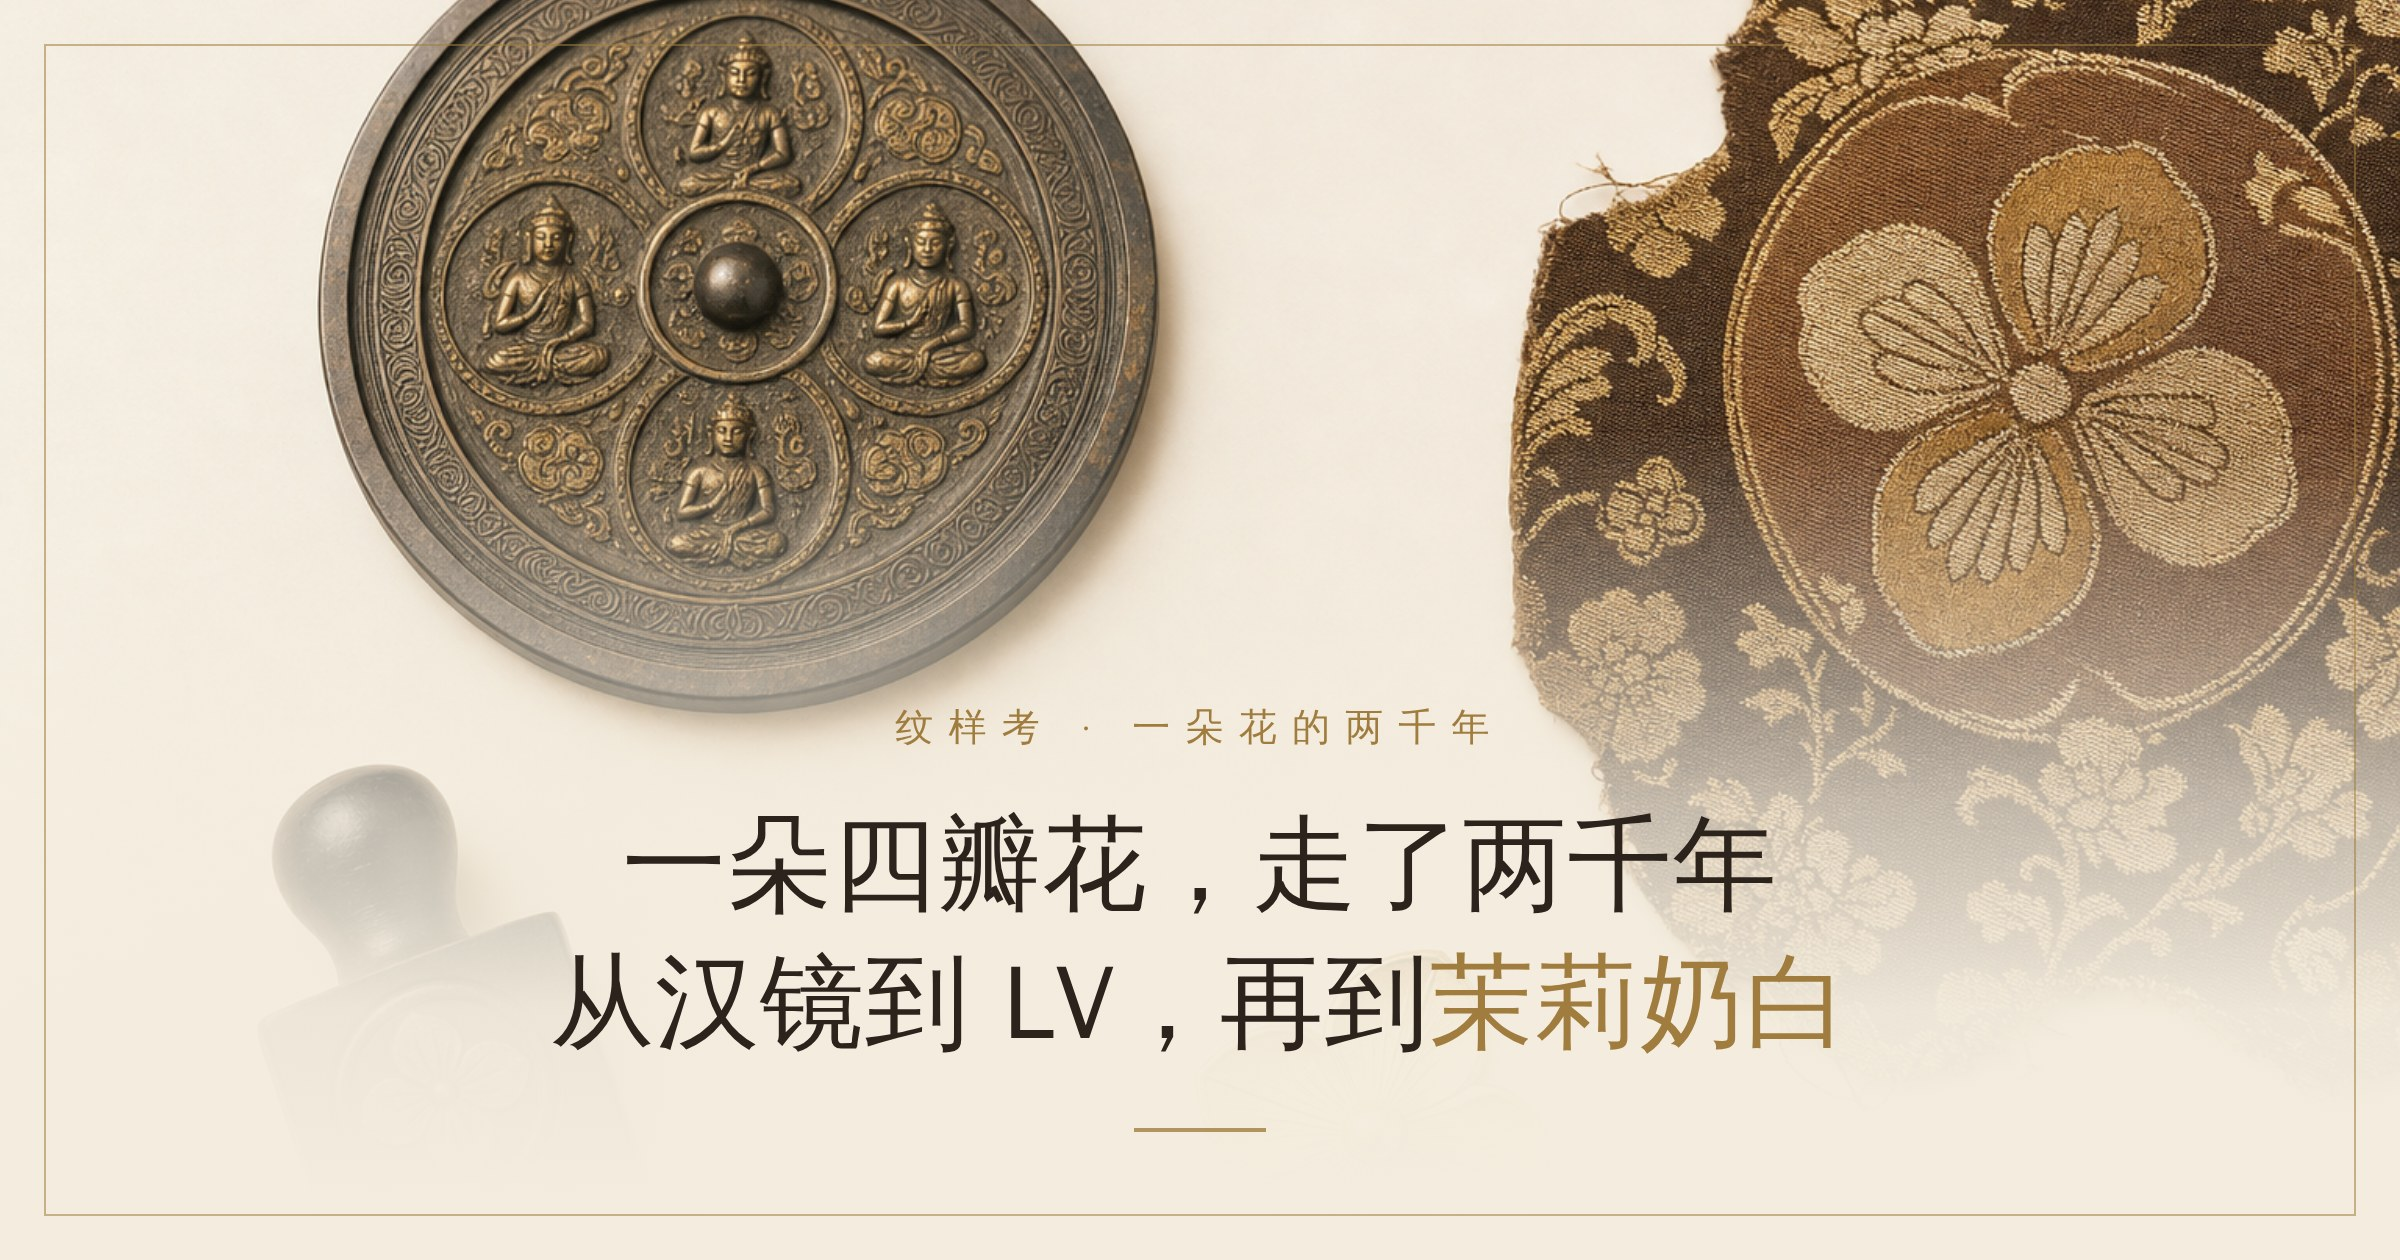
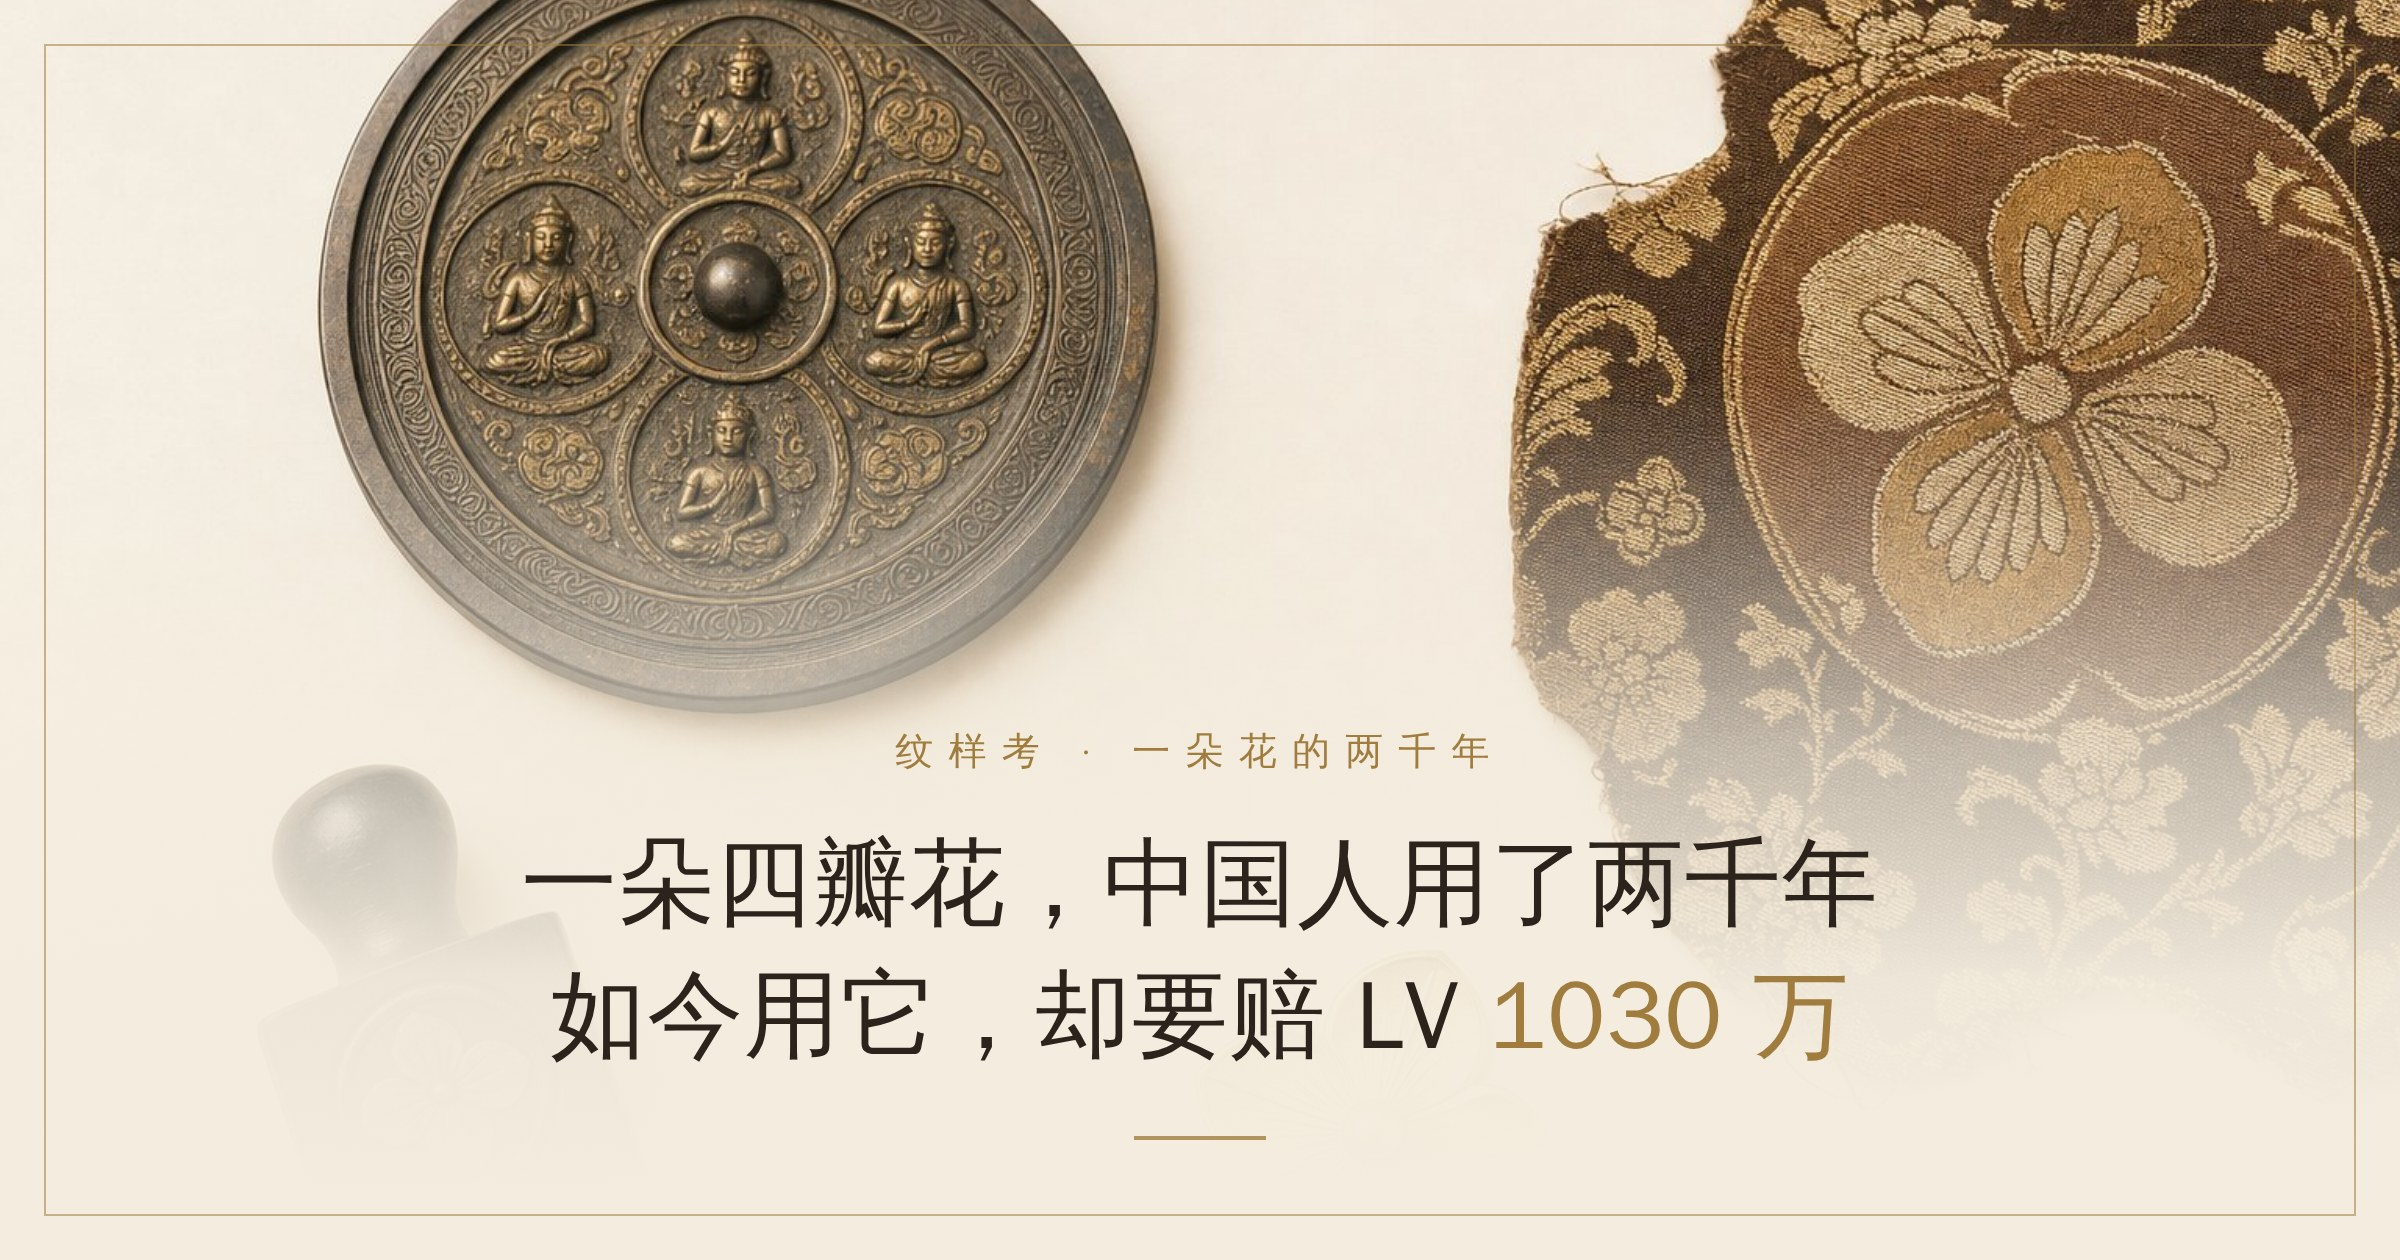
《四瓣花》传播优化稿：标题/导语/CTA/去私货/精简
- 标题换血：突出冲突+数字+身份——"中国人用了两千年，如今用它却要赔 LV 1030 万"
- 导语去掉"慢慢摸"（劝退长文信号），改为payoff承诺+情绪钩子（有点扎心）
- 公众号版删掉肆·时间线（线性图文里是节奏杀手；交互时间轴仍在阅读原文），伍/陆顺移
- 结尾补互动 CTA：二选一提问（争气/规则）拉评论 + 转发钩子拉分享
- 弱化 AI 自荐的"卖课味"（去掉"我自己就在 AI 行业/用 AI 做营销"），保留"用今天的工具原创"主张
- 宝相花段先抛"现实里不存在的花"再折入 padma，保住阅读节奏
- 重出 OG 封面 cover.jpg（新标题+1030万金字）；博客标题同步

Claude-Session: https://claude.ai/code/session_01Es2ZKDeiJhqM3mfFHETBxV

diff --git a/assets/interactive/four-petal-flower/index.html b/assets/interactive/four-petal-flower/index.html
@@ -113,13 +113,13 @@
 </style>
 </head>
 <body>
-<!-- content rev 2026-07-05e: 结尾比喻改用"佛教东传的莲花"，与正文一致 · redeploy -->
+<!-- content rev 2026-07-05f: 传播优化稿（标题/导语/去私货/CTA）· redeploy -->
 <div class="wrap">
 
   <div class="hero">
     <div class="kicker sans">纹样考 · 一朵花的两千年</div>
-    <h1>一朵四瓣花，走了两千年<br>从汉朝的铜镜，到 LV，再到<span class="hl">茉莉奶白</span></h1>
-    <p class="lead">这次上热搜的，是一朵四瓣花，和一张一千零三十万的判决书。但很少有人真的把这朵花的来路，从头到尾摸一遍。今天我们就慢慢摸一次。</p>
+    <h1>一朵四瓣花，中国人用了两千年<br>如今用它，却要赔 LV <span class="hl">1030 万</span></h1>
+    <p class="lead">全网都在吵那朵花，凭什么就算 LV 的。我把它的来路从头查了一遍——结论有点扎心：两千年前，它就刻在中国人的铜镜上了。这一圈，绕了两千年。</p>
     <div class="rule"></div>
     <div class="byline sans">图 / 文　MAX（MA WEI）　·　文中真实文物图均来自公开馆藏，授权见文末</div>
   </div>
@@ -208,7 +208,7 @@
   <h3>第二站，日本的花，其实是唐朝给的</h3>
   <p>那日本这套花纹，又是自己长出来的吗。不是。这一段，我们甚至不用自己开口，日本人自己的博物馆写得清清楚楚。</p>
   <p>奈良国立博物馆的正仓院展，在解释<em>宝相花</em>这种纹样时说：它中国隋到初唐产生，唐代流行，日本从奈良时期才开始流行起来。换句话说，连日本人自己的博物馆，都把这朵花的老家，写在了中国。</p>
-  <p>宝相花是什么。<em>宝相</em>二字出自佛教，本指佛像庄严宝贵之相；而这朵花的骨子里是莲花——梵语 <em>padma</em>（पद्म，旧译"钵特摩"），佛教眼中圣洁之花。它以牡丹、莲花、芙蓉为底子，再把云纹、忍冬、桃瓣一层层包进去，人工拼出来的一朵现实里根本不存在的花。一朵幻想之花。唐朝的壁画、丝绸、瓷器上，全是它。</p>
+  <p>宝相花是什么。它是一朵<em>现实里根本不存在的花</em>：以牡丹、莲花、芙蓉打底，再把云纹、忍冬、桃瓣一层层裹进去，人工拼出来的一朵幻想之花。它的骨子里是莲花——梵语 <em>padma</em>（पद्म，旧译"钵特摩"），佛教里的圣洁之花；连"宝相"这名字，都出自佛教，本指佛的庄严宝贵之相。唐朝的壁画、丝绸、瓷器上，全是它。</p>
 
   <figure>
     <div class="mount"><img src="img/tang-textile.jpg" alt="唐代团窠花卉纹织物，大都会艺术博物馆藏" loading="lazy"></div>
@@ -273,8 +273,8 @@
   <p>茉莉是单瓣五六片、重瓣一大簇的花，圆润、层叠，怎么都跟四瓣扯不上关系。一个叫茉莉的牌子，不去用自己名字里那朵真花，偏偏挑了一朵四瓣花。而这朵四瓣花的真身，是柿蒂纹、宝相花、家纹、LV 老花这一整条线，跟茉莉半毛钱关系都没有。</p>
   <p>你到底在致敬谁。</p>
   <p>说得直白点，这套把法式高奢感往奶茶杯子上一贴的打法，怎么看都像是营销公司把那套"国风高奢"的现成模板，换了个壳又做了一遍，结果一头撞进了 LV 的商标墙。米白配藏蓝，粗印花铺底，中间来个花标，这些年我们见得还少吗。</p>
-  <p class="pull">与其花大价钱找营销公司，抄来抄去抄进法院，<br>还真不如老老实实用 AI 做营销。</p>
-  <p>我说这句不是开玩笑。我自己就在 AI 这个行业里。我太清楚今天的工具，已经能帮一个品牌，从自己的名字、自己的故事、自己的文化根里，长出真正属于它的东西，而不是去别人的视觉资产边上打擦边球。茉莉就该有茉莉的样子。你手里明明攥着两千年的方华、宝相花、缠枝纹，这么大一座宝库，为什么非要去描一朵别人的老花。</p>
+  <p class="pull">与其花大价钱请营销公司，抄来抄去抄进法院，<br>不如老老实实从自己的根上，长出一朵新的。</p>
+  <p>这不是空话。今天的工具，已经足够帮一个品牌，从自己的名字、自己的故事、自己的文化根里，长出真正属于它的东西，而不必去别人的视觉资产边上打擦边球。茉莉就该有茉莉的样子。你手里明明攥着两千年的方华、宝相花、缠枝纹，这么大一座宝库，为什么非要去描一朵别人的老花。</p>
   <p>方华这朵花，两千年前开在中国人的铜镜上，标着天地四方。今天它成了别人的商标，回来要我们让路。</p>
   <p>我们该做的，不是哭喊它被抢走了。是像当年先人把佛教东传的莲花，揉进本土花草、养成宝相花那样，再来一次。用今天的技术、今天的审美，把老祖宗的东西，长成只属于这个时代、又谁也拿不走的新东西。</p>
   <p>这，才是这朵花，真正该有的下一站。</p>

diff --git a/_posts/2026-07-05-four-petal-flower-lv.md b/_posts/2026-07-05-four-petal-flower-lv.md
@@ -1,5 +1,5 @@
 ---
-title: "一朵四瓣花，走了两千年：从汉镜到 LV，再到茉莉奶白"
+title: "一朵四瓣花，中国人用了两千年，如今用它却要赔 LV 1030 万"
 date: 2026-07-05 10:00:00 +0800
 author: Max (Ma Wei)
 location: Singapore